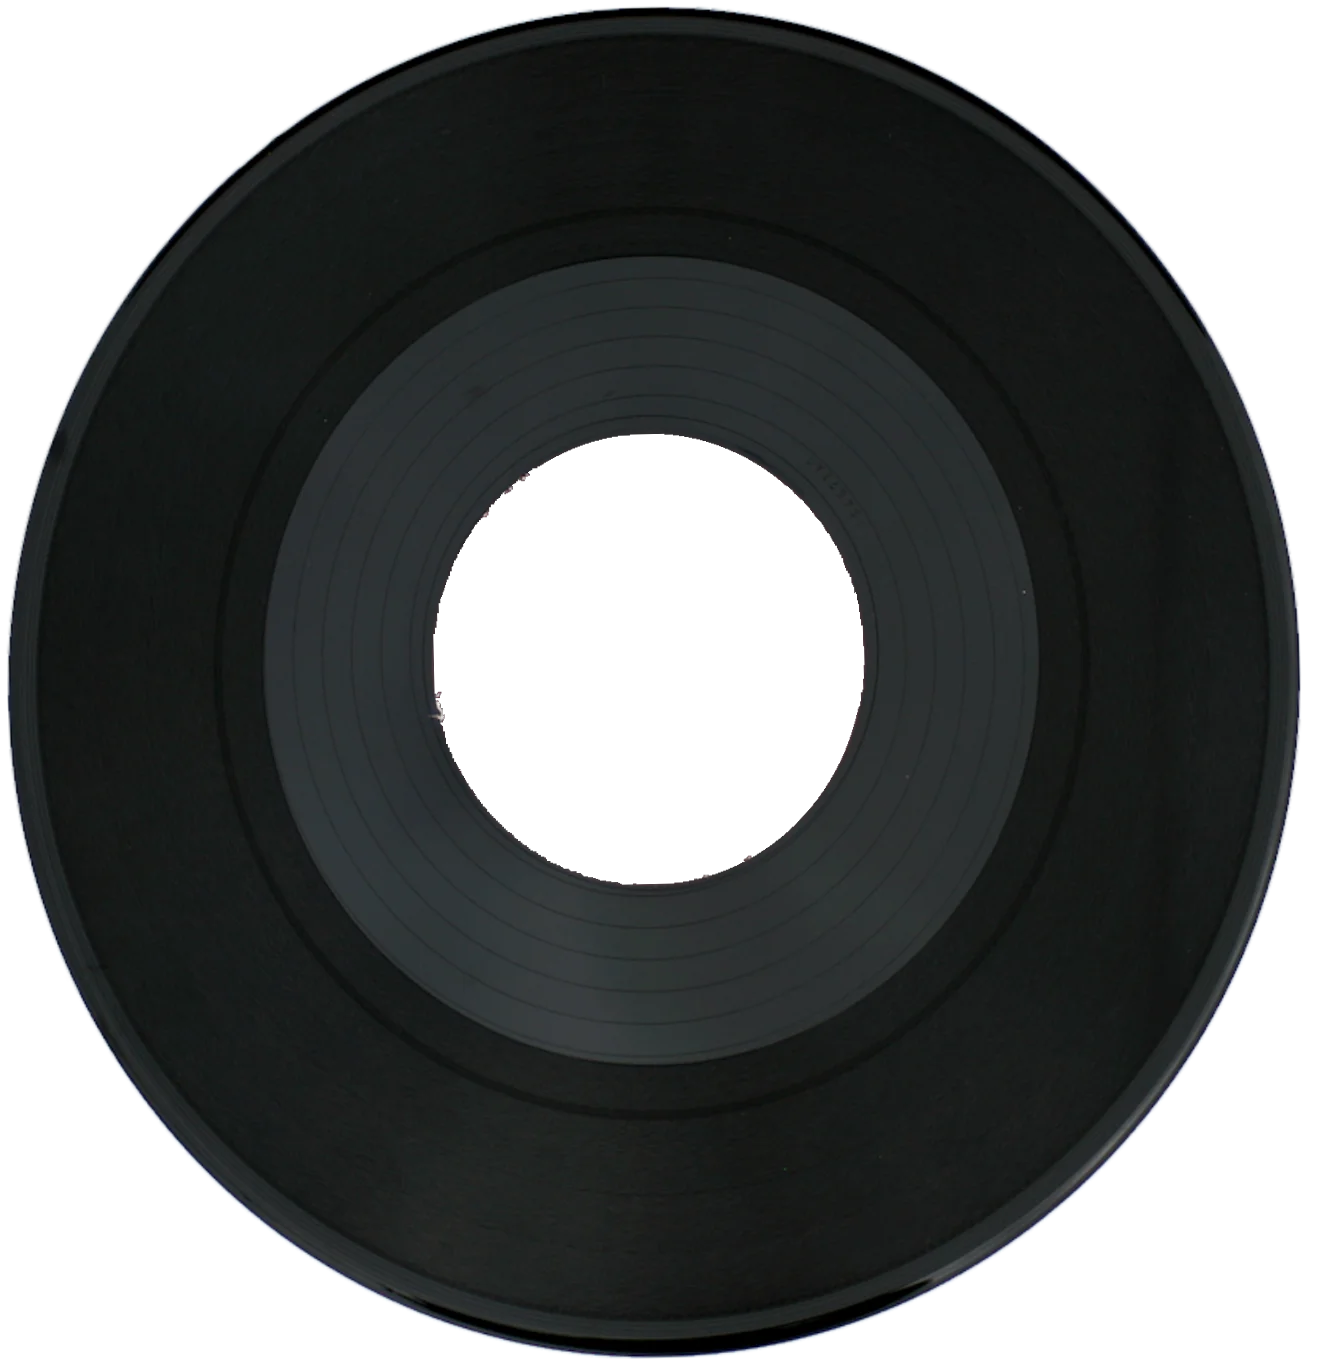
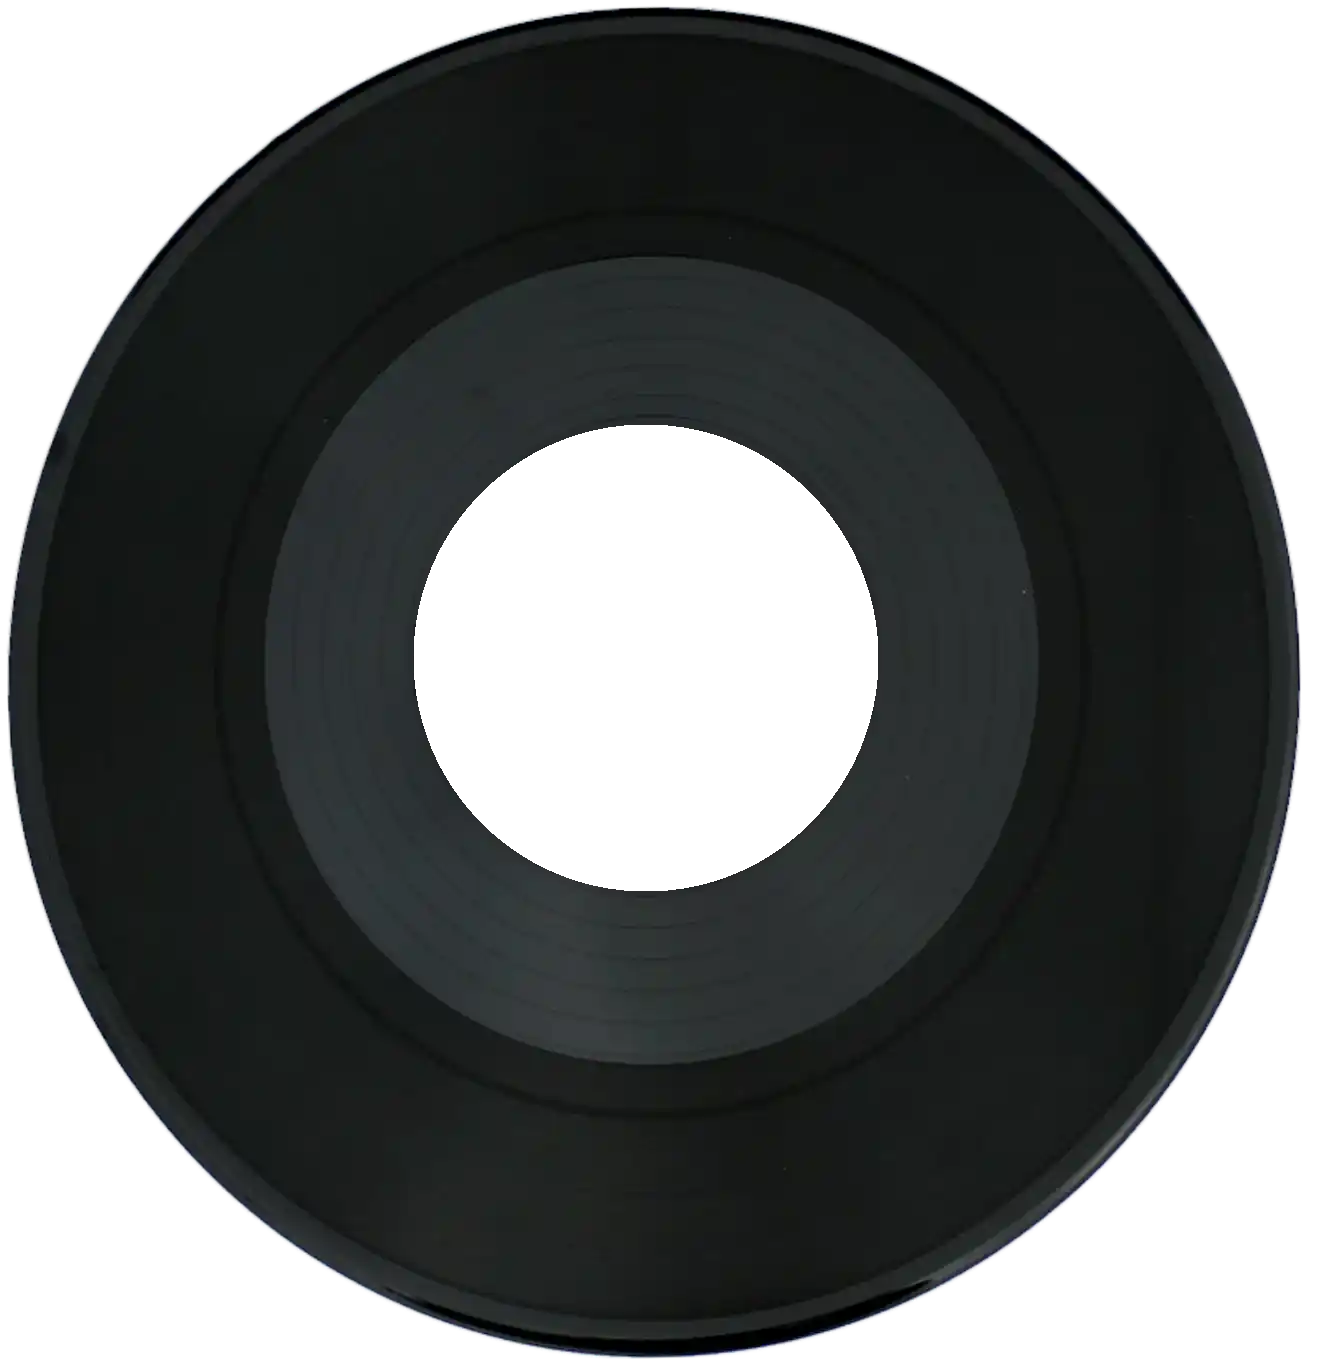
style: change vinyl picture

diff --git a/src/components/LatestRelease/LatestRelease.module.css b/src/components/LatestRelease/LatestRelease.module.css
@@ -26,8 +26,8 @@
   width: 23vw;
   height: auto;
   position: absolute;
-  top: 50%;
-  left: 50%;
+  top: 48%;
+  left: 49%;
   transform: translate(-50%, -50%);
   z-index: 100;
 }
